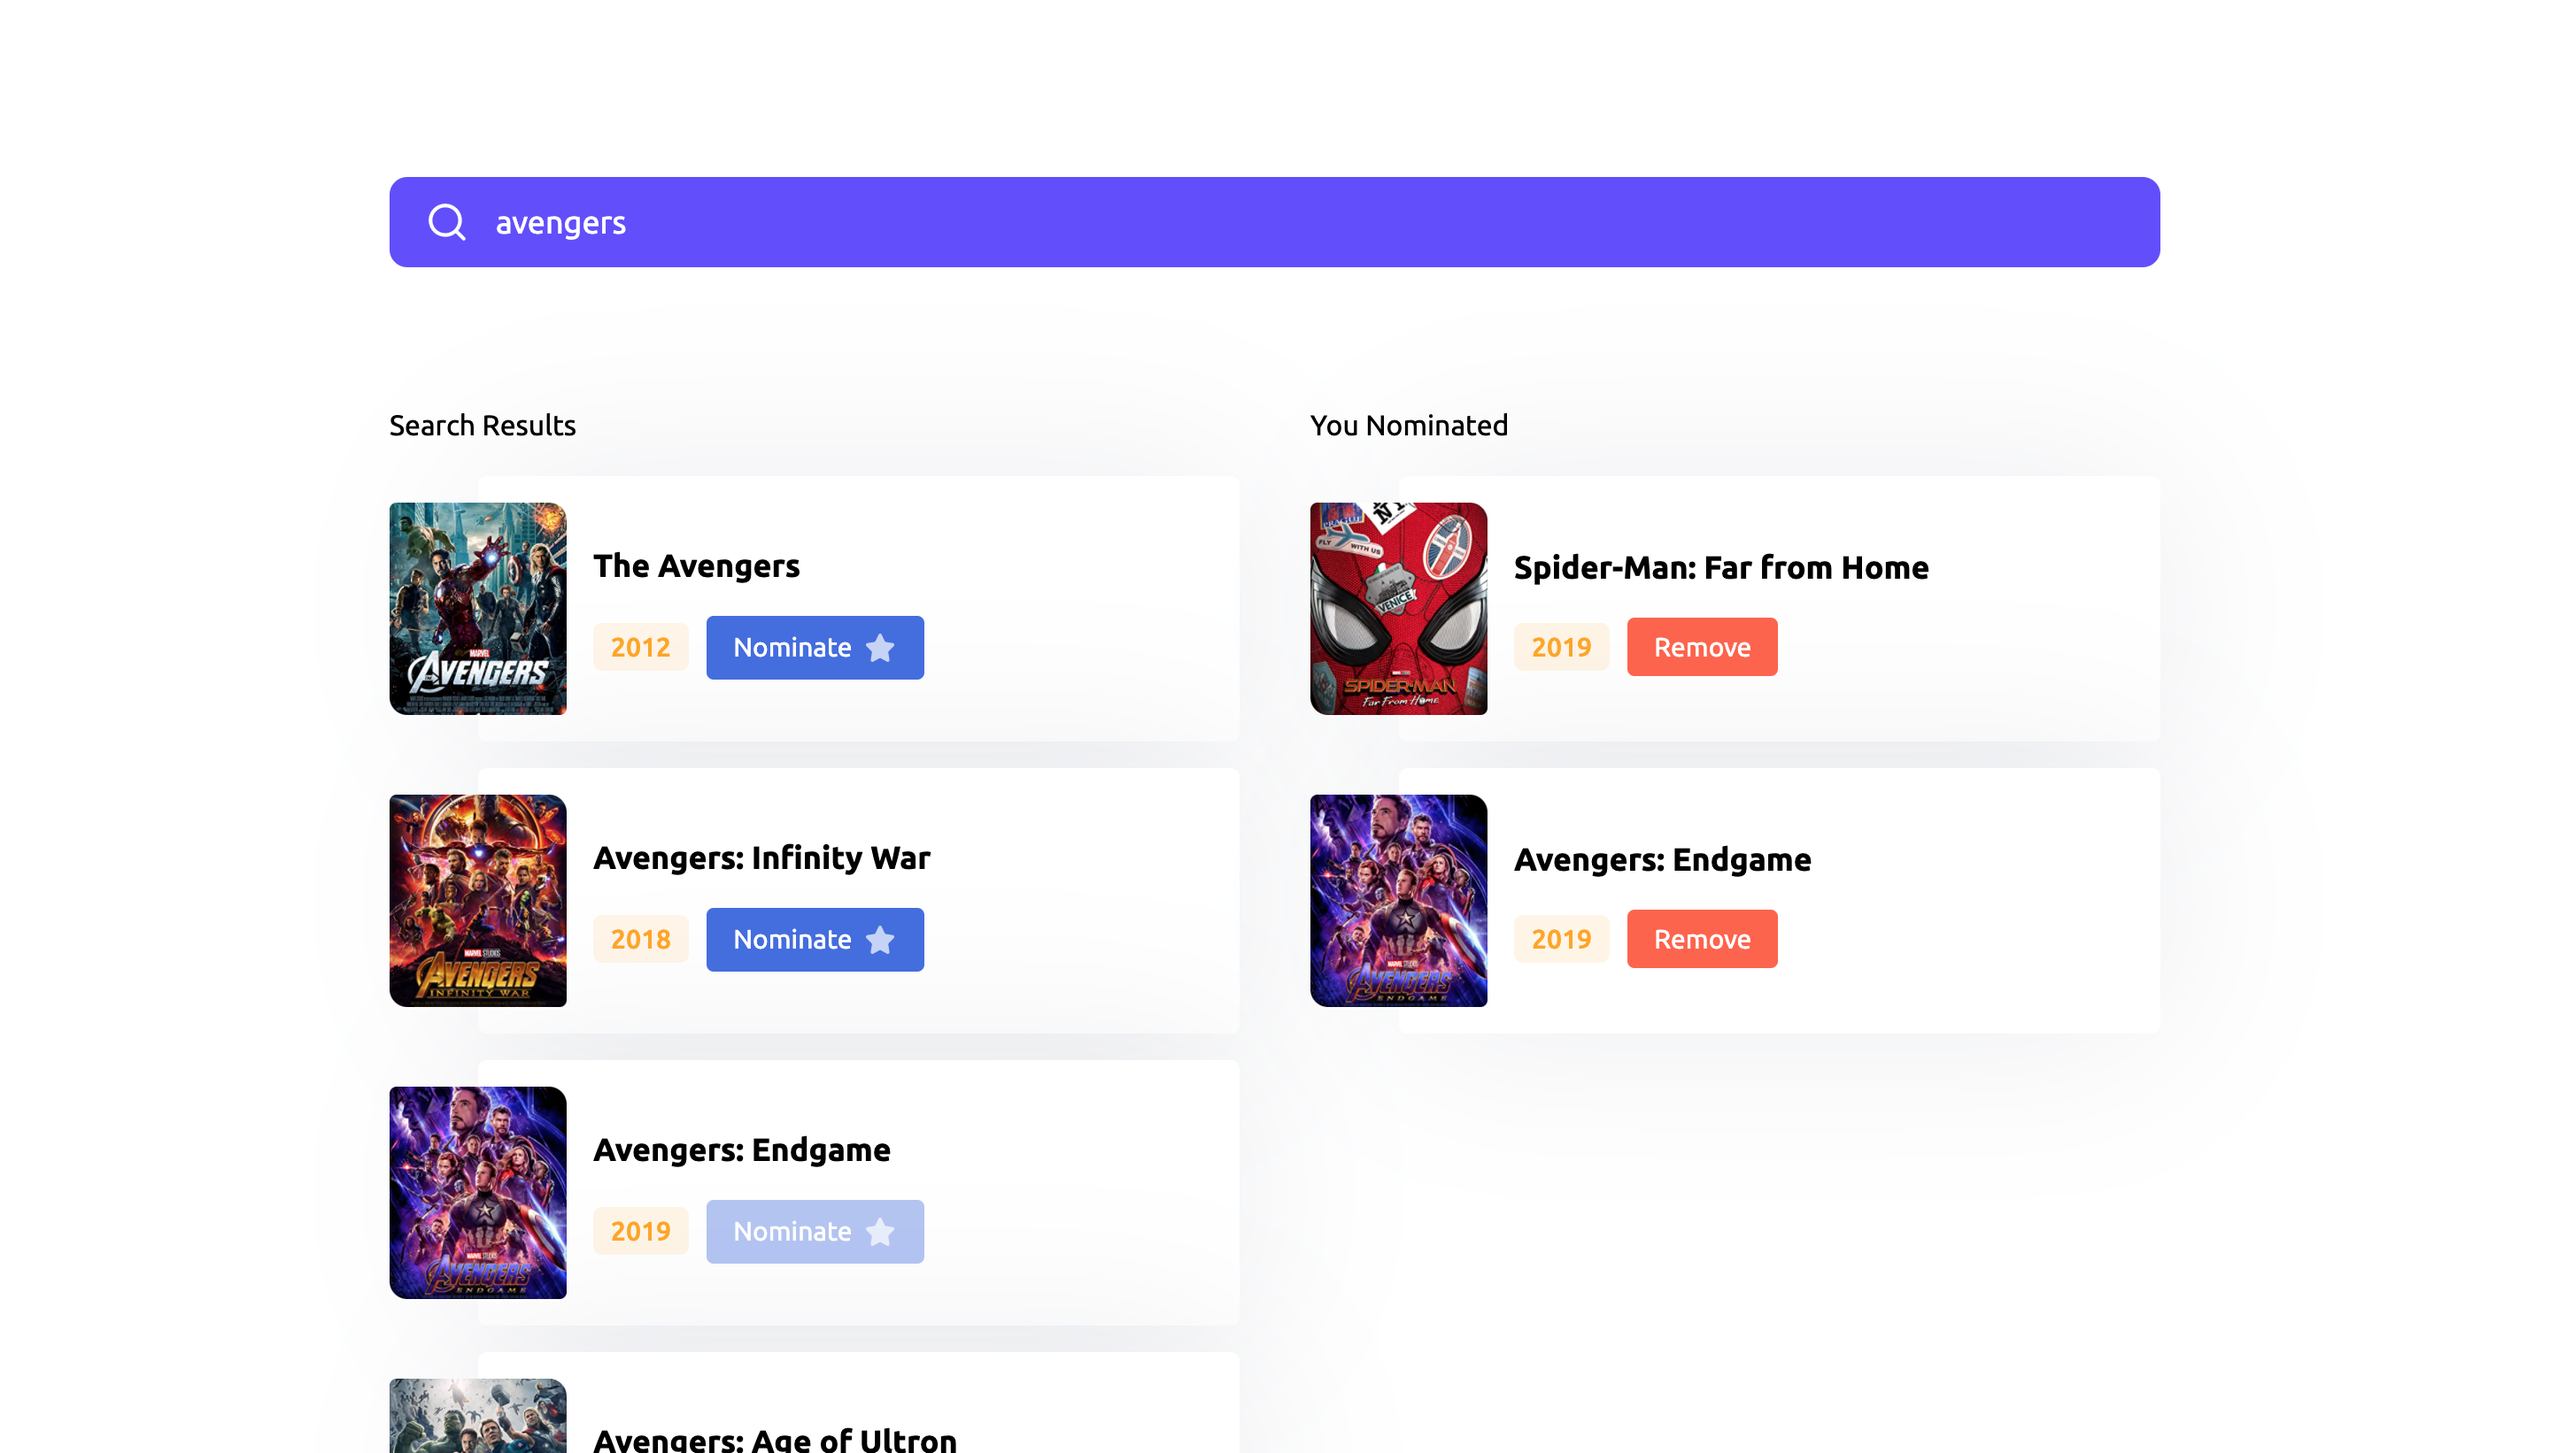
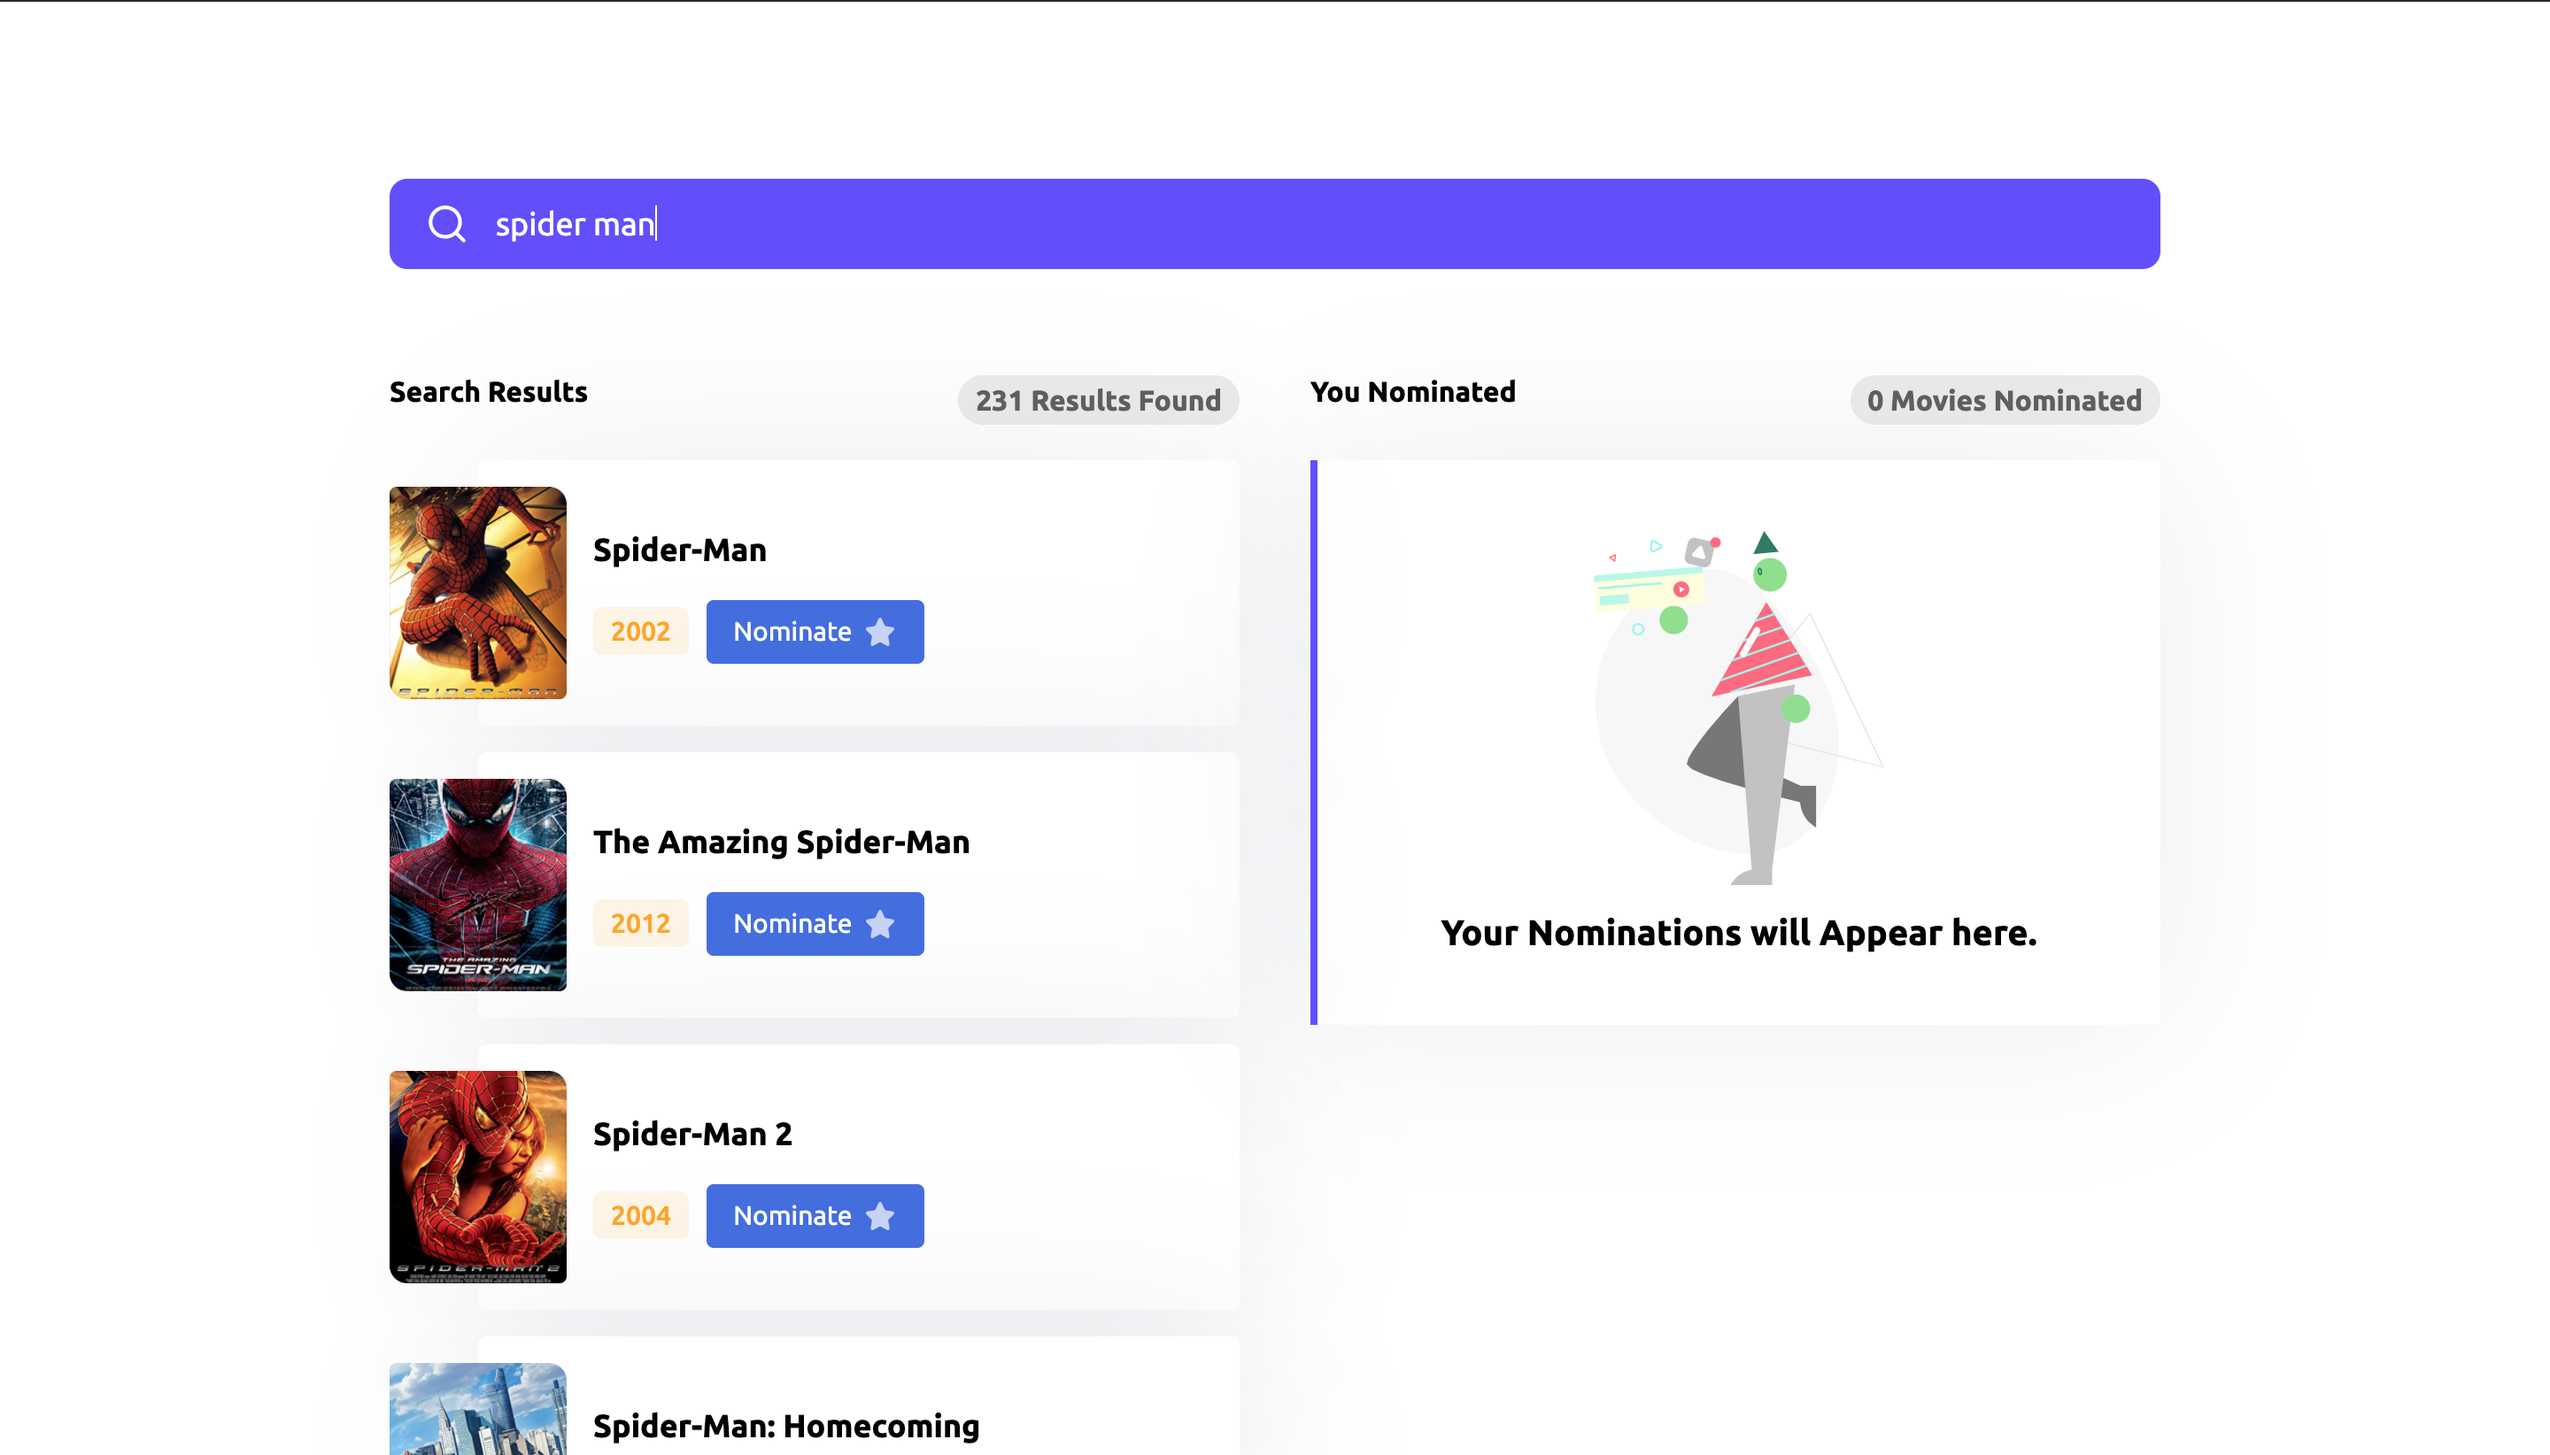
amapped length of result in UI

diff --git a/src/components/Home/HomeSearchResults/HomeSearchResults.jsx b/src/components/Home/HomeSearchResults/HomeSearchResults.jsx
@@ -29,11 +29,17 @@ export default function HomeSearchResults() {
 
   return (
     <div>
-      <p className="col_title">Search Results</p>
+      <p className="col_title">
+        Search Results{" "}
+        {searchResults?.totalResults ? (
+          <span>{`${searchResults.totalResults} Results Found`}</span>
+        ) : (
+          false
+        )}
+      </p>
       {searchResults?.Search?.map((movie) => (
         <HomeMovie movie={movie} key={movie.imdbID} />
       ))}
-      <br />
       {isLoading && searchResults?.Search?.length > 0 && (
         <div className="movies_loader">
           <HomeMovieLoader />
@@ -42,24 +48,25 @@ export default function HomeSearchResults() {
         </div>
       )}
       {isLoading && searchResults?.Search?.length < 0 && searchValue && (
-        <Error>Loading results, just a sec</Error>
+        <ErrorState>Loading results, just a sec</ErrorState>
       )}
       {isLoading && !searchResults && searchValue && (
-        <Error>Loading results, just a sec</Error>
+        <ErrorState>Loading results, just a sec</ErrorState>
       )}
       {isLoading && searchResults?.Error && searchValue && (
-        <Error>Errr, {searchResults?.Error}</Error>
+        <ErrorState>Errr, {searchResults?.Error}</ErrorState>
       )}
-      {!searchValue && <Error>Your search Results will appear here.</Error>}
-      <br />
+      {!searchValue && (
+        <ErrorState>Your search Results will appear here.</ErrorState>
+      )}
     </div>
   );
 }
 
-function Error({ children }) {
+export function ErrorState({ children, src = "/assets/icons/nothing.svg" }) {
   return (
     <div className="_nothing">
-      <img src="/assets/icons/nothing.svg" alt="" srcset="" />
+      <img src={src} alt="" srcSet="" />
       <p className="__text">{children}</p>
     </div>
   );

diff --git a/src/components/Home/HomeNominations/HomeNominations.jsx b/src/components/Home/HomeNominations/HomeNominations.jsx
@@ -1,7 +1,7 @@
-import React, { createRef, useEffect } from "react";
+import React, { createRef } from "react";
 import { useHomeContext } from "../HomeContext/HomeContextProvider";
 import HomeMovie from "../HomeSearchResults/HomeMovie";
-// import dragula from "react-dragula";
+import { ErrorState } from "../HomeSearchResults/HomeSearchResults";
 
 export default function HomeNominations() {
   const {
@@ -10,17 +10,25 @@ export default function HomeNominations() {
 
   const nominationsRef = createRef();
 
-  // useEffect(() => {
-    // dragula([nominationsRef.current]);
-  // }, [nominationsRef]);
-
   return (
     <div className="_nom_col">
-      <p className="col_title">You Nominated</p>
+      <p className="col_title">
+        You Nominated
+        {nominatedMovies ? (
+          <span>{`${nominatedMovies.length} Movies Nominated`}</span>
+        ) : (
+          false
+        )}
+      </p>
       <div ref={nominationsRef}>
         {nominatedMovies.map((movie) => (
           <HomeMovie movie={movie} nomination />
         ))}
+        {nominatedMovies?.length <= 0 && (
+          <ErrorState src="/assets/icons/nothing-nomination.svg">
+            Your Nominations will Appear here.
+          </ErrorState>
+        )}
       </div>
     </div>
   );

diff --git a/src/components/Home/index.scss b/src/components/Home/index.scss
@@ -1,5 +1,4 @@
 @import url("https://fonts.googleapis.com/css2?family=Ubuntu:ital,wght@0,300;0,400;0,500;0,700;1,300;1,400&display=swap");
-@import "../../styles/dragula.scss";
 
 * {
   padding: 0;
@@ -13,9 +12,9 @@ input {
   border: none;
   box-shadow: none;
 }
-body {
-  // background: #e0dbff25;
-}
+// body {
+//   // background: #e0dbff25;
+// }
 
 button {
   background: transparent;
@@ -27,6 +26,7 @@ button {
   align-items: center;
 }
 
+//home page
 .home_page {
   max-width: 1000px;
   margin-right: auto;
@@ -160,7 +160,17 @@ button {
 
     .col_title {
       margin-bottom: 20px;
-      margin-top: 50px;
+      margin-top: 30px;
+      white-space: nowrap;
+      font-weight: 600;
+      display: flex;
+      justify-content: space-between;
+      span {
+        background: #bebebe50;
+        color: rgb(95, 95, 95);
+        padding: 5px 10px;
+        border-radius: 100vh;
+      }
     }
   }
   .movies_loader {

diff --git a/src/api/search.js b/src/api/search.js
@@ -5,6 +5,10 @@ export default function search(s, p = "1") {
     const url = `http://www.omdbapi.com/?apikey=ce28a31a&s=${s}&page=${p}`;
     fetch(url)
       .then((res) => res.json())
-      .then(resolve);
+      .then(resolve)
+      .catch((err) => {
+        console.log(err);
+        reject(err);
+      });
   });
 }
